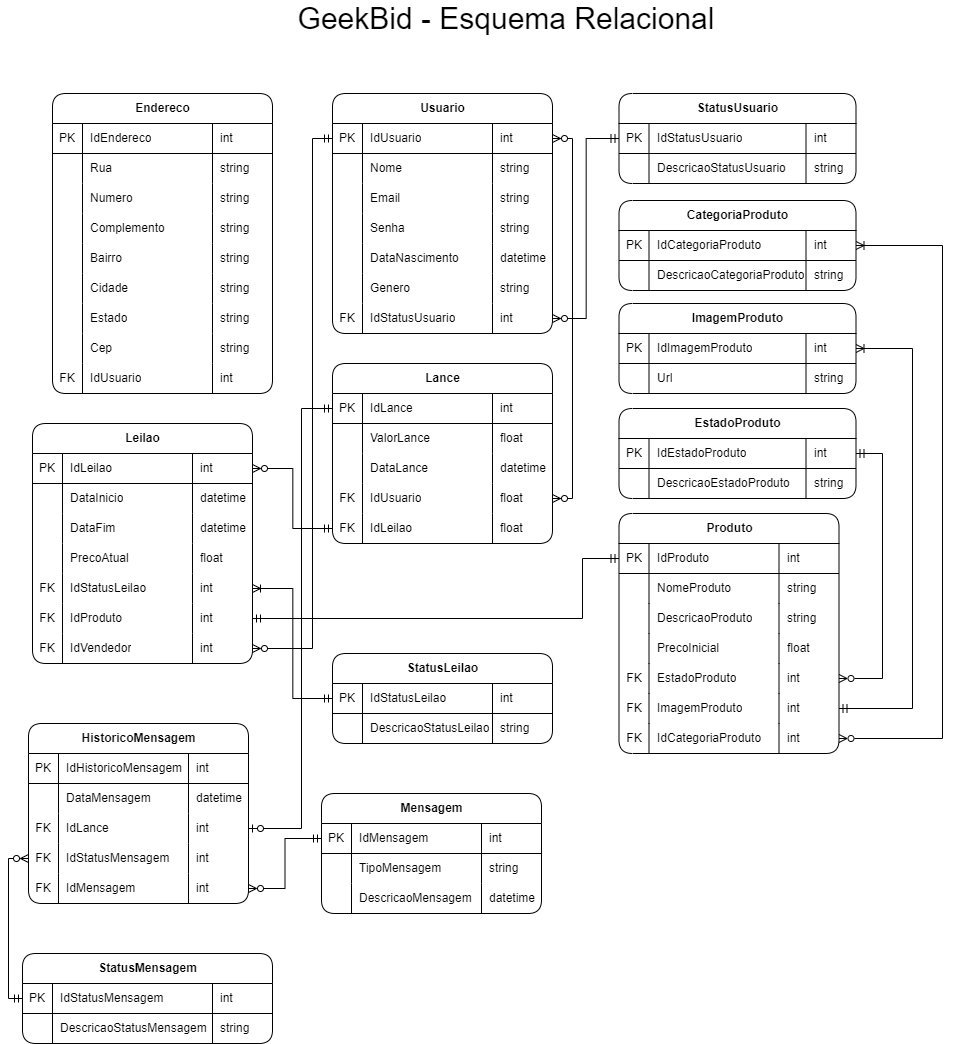
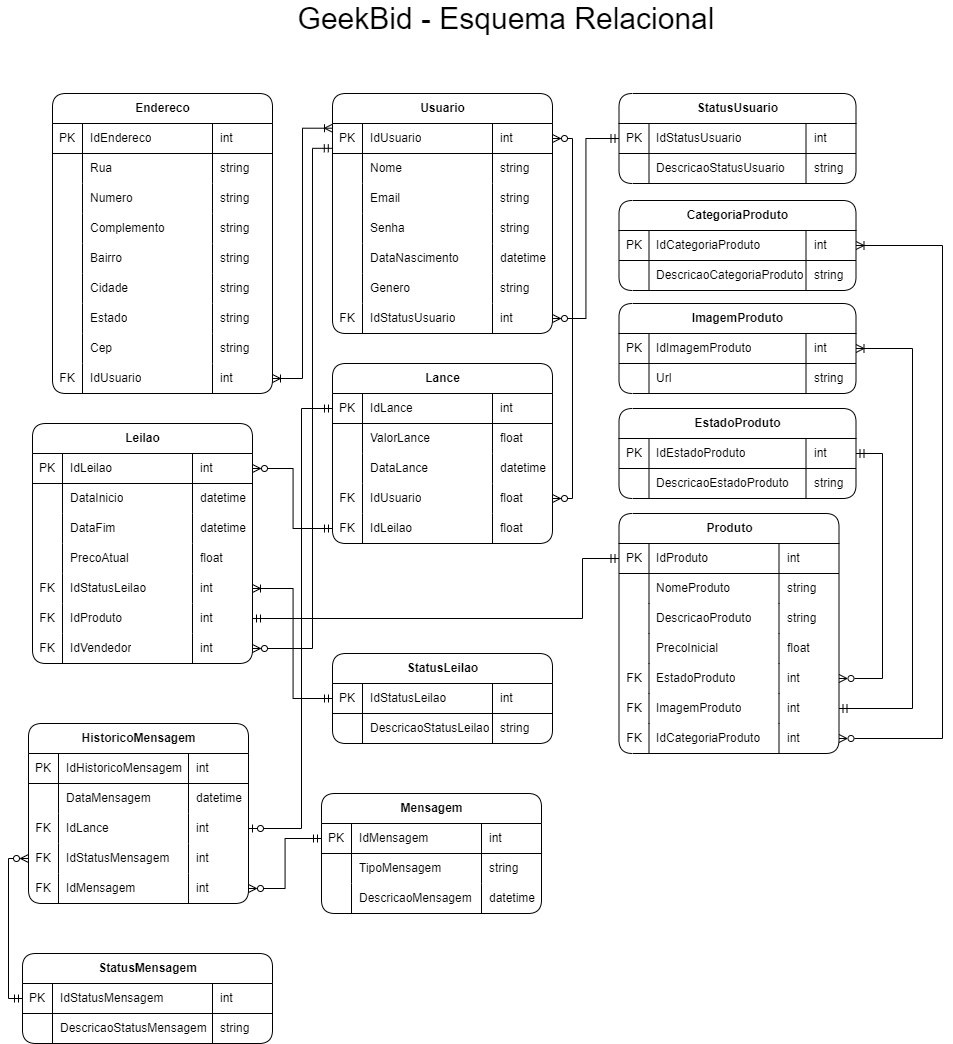
Atualiza Esquema Relacional e link banco de dados

diff --git a/docs/05-Arquitetura da Solução.md b/docs/05-Arquitetura da Solução.md
@@ -24,7 +24,7 @@ O Modelo Entidade-Relacionamento representa através de um diagrama como as enti
 
 ## Modelo Físico
 
-Entregar um arquivo banco.sql contendo os scripts de criação das tabelas do banco de dados. Este arquivo deverá ser incluído dentro da pasta src\bd.
+Arquivo disponível em [banco.sql](/src/bd/banco.sql).
 
 ## Tecnologias Utilizadas
 
